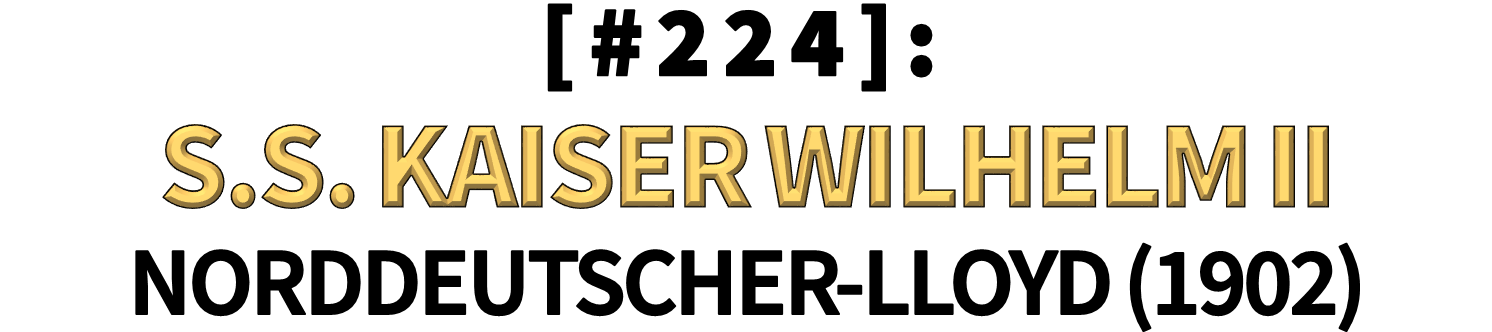
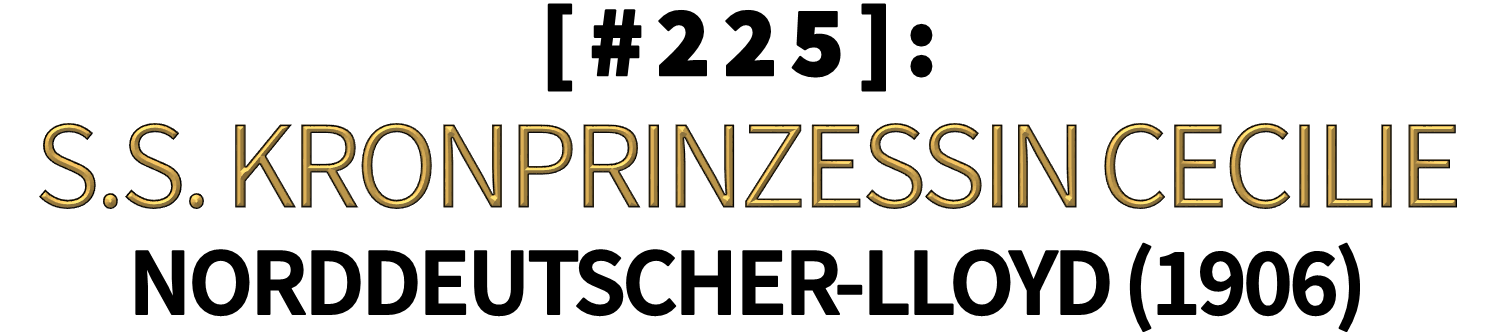
Update

Changed region(s): [[0.0, 0.3614, 0.9866, 0.6325], [0.5241, 0.0301, 0.5858, 0.241], [0.8633, 0.753, 0.8941, 0.9639]]

diff --git a/HTML STUFF/PROGRESS BAR/ANNOUNCEMENTS/LOG2.html b/HTML STUFF/PROGRESS BAR/ANNOUNCEMENTS/LOG2.html
@@ -63,9 +63,9 @@ div.hidden {
 <td>
 <center>
 <b>
-<font color="#33CC33">224<sup>TH</sup></font> SHIP ATTEMPTED;
+<font color="#33CC33">225<sup>TH</sup></font> SHIP ATTEMPTED;
 <br>
-<font color="red">26</font> of <font color="blue">50</font> TOTAL SHIPS REMAIN.
+<font color="red">24</font> of <font color="blue">50</font> TOTAL SHIPS REMAIN.
 </b>
 </center>
 </td>
@@ -77,7 +77,7 @@ div.hidden {
 </font>
 <br>
 </b>
-<b>[#223]: S.S. KRONPRINZ WILHELM (1901)</b>
+<b>[#224]: S.S. KAISER WILHELM II (1902)</b>
 </center>
 </td>
 </tr>
@@ -86,9 +86,9 @@ div.hidden {
 <td>
 <center>
 <b>
-<font color="#33CC33">24<sup>TH</sup></font> SHIP IN 3<sup>RD</sup> STAGE.
+<font color="#33CC33">25<sup>TH</sup></font> SHIP IN 3<sup>RD</sup> STAGE.
 <br>
-<font color="#33CC33">5<sup>TH</sup></font> SHIP THIS MONTH.
+<font color="#33CC33">6<sup>TH</sup></font> SHIP THIS MONTH.
 </b>
 </center>
 </td>
@@ -97,11 +97,11 @@ div.hidden {
 <font color="red">
 <b>
 <u>NEXT SHIP:</u>
-</font>[#225]: 
+</font>
 <br>
 </b>
 <b>
-S.S. KRONPRINZESSIN CECILIE (1906)
+[#226]: M.S. GIOTTO (—)
 </b>
 </center>
 </td>
